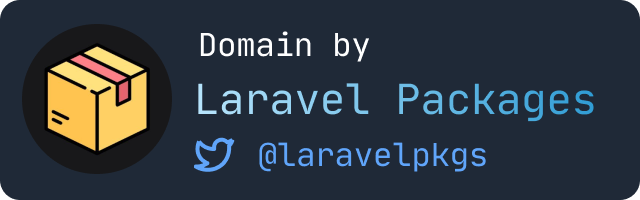
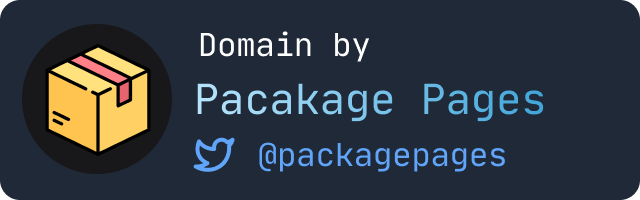
update docs page provider

diff --git a/docs/index.html b/docs/index.html
@@ -12,32 +12,68 @@
     <!-- Primary Meta Tags -->
     <title>Laravel Static Form handles forms from static websites</title>
     <meta name="title" content="Laravel Static Form handles forms from static websites">
-    <meta name="description" content="Static Form helps you to accept static website forms submitted to your Laravel application using API routes and tokens">
+    <meta name="description"
+        content="Static Form helps you to accept static website forms submitted to your Laravel application using API routes and tokens">
 
     <!-- Open Graph / Facebook -->
     <meta property="og:type" content="website">
     <meta property="og:url" content="https://reecem.github.io/static-form">
     <meta property="og:title" content="Laravel Static Form handles forms from static websites">
-    <meta property="og:description" content="Static Form helps you to accept static website forms submitted to your Laravel application using API routes and tokens">
-    <meta property="og:image" content="https://banners.beyondco.de/Static%20Form.png?theme=dark&packageManager=composer+require&packageName=reecem%2Fstatic-form&pattern=xEquals&style=style_2&description=Handle+Static+Site+forms+submissions+inside+your+Laravel+App&md=1&showWatermark=1&fontSize=100px&images=mail&widths=700&heights=400">
+    <meta property="og:description"
+        content="Static Form helps you to accept static website forms submitted to your Laravel application using API routes and tokens">
+    <meta property="og:image"
+        content="https://banners.beyondco.de/Static%20Form.png?theme=dark&packageManager=composer+require&packageName=reecem%2Fstatic-form&pattern=xEquals&style=style_2&description=Handle+Static+Site+forms+submissions+inside+your+Laravel+App&md=1&showWatermark=1&fontSize=100px&images=mail&widths=700&heights=400">
 
     <!-- Twitter -->
     <meta property="twitter:card" content="summary_large_image">
     <meta property="twitter:url" content="https://reecem.github.io/static-form">
     <meta property="twitter:title" content="Laravel Static Form handles forms from static websites">
-    <meta property="twitter:description" content="Static Form helps you to accept static website forms submitted to your Laravel application using API routes and tokens">
-    <meta property="twitter:image" content="https://banners.beyondco.de/Static%20Form.png?theme=dark&packageManager=composer+require&packageName=reecem%2Fstatic-form&pattern=xEquals&style=style_2&description=Handle+Static+Site+forms+submissions+inside+your+Laravel+App&md=1&showWatermark=1&fontSize=100px&images=mail&widths=700&heights=400">
+    <meta property="twitter:description"
+        content="Static Form helps you to accept static website forms submitted to your Laravel application using API routes and tokens">
+    <meta property="twitter:image"
+        content="https://banners.beyondco.de/Static%20Form.png?theme=dark&packageManager=composer+require&packageName=reecem%2Fstatic-form&pattern=xEquals&style=style_2&description=Handle+Static+Site+forms+submissions+inside+your+Laravel+App&md=1&showWatermark=1&fontSize=100px&images=mail&widths=700&heights=400">
 
-    <link rel="stylesheet" href="./css/extra.css"/>
-    <link rel="stylesheet" href="//cdn.jsdelivr.net/npm/docsify-changelog-plugin@latest/dist/style.css"/>
-    <link rel="stylesheet" href="//maxcdn.bootstrapcdn.com/font-awesome/4.5.0/css/font-awesome.min.css"/>
+    <link rel="stylesheet" href="./css/extra.css" />
+    <link rel="stylesheet" href="//cdn.jsdelivr.net/npm/docsify-changelog-plugin@latest/dist/style.css" />
+    <link rel="stylesheet" href="//maxcdn.bootstrapcdn.com/font-awesome/4.5.0/css/font-awesome.min.css" />
+    <style>
+        .pkg-badge {
+            position: fixed;
+            bottom: 0px;
+            left: 0px;
+            width: 100%;
+            display: flex;
+            padding: 0.3rem;
+            justify-content: flex-end;
+        }
+
+        .pkg-badge svg {
+            width: 170px;
+        }
+
+        .pkg-badge img {
+            width: 170px;
+        }
+
+        @media only screen and (max-width: 600px) {
+            .pkg-badge svg {
+                width: 100px;
+            }
+
+            .pkg-badge img {
+                width: 100px;
+            }
+        }
+    </style>
 </head>
 
 <body>
-    <div id="h-bar" style="position: -webkit-sticky; position: sticky; top: 0; z-index: 1;" data-template="#hbar_template"></div>
+    <div id="h-bar" style="position: -webkit-sticky; position: sticky; top: 0; z-index: 1;"
+        data-template="#hbar_template"></div>
     <nav></nav>
     <div id="app"></div>
-    <div style="position: fixed; bottom: 0px; left: 0px; width: 100%; display: flex; padding: 0.3rem; justify-content: flex-end;">
+    <div
+        style="position: fixed; bottom: 0px; left: 0px; width: 100%; display: flex; padding: 0.3rem; justify-content: flex-end;">
         <a href="https://packagepages.dev" rel="noopener noreferer">
             <img src="./laravel_packages.png" width="170" alt="Domain Proudly Supplied by Package Packages">
         </a>
@@ -45,35 +81,39 @@
     <script>
         window.$docsify = {
             name: 'static-form',
-			repo: 'ReeceM/static-form',
-			copyCode: {
-				buttonText : 'Copy',
-				errorText  : 'Error, please try regular way :)',
-				successText: 'Copied'
-			},
+            repo: 'ReeceM/static-form',
+            copyCode: {
+                buttonText: 'Copy',
+                errorText: 'Error, please try regular way :)',
+                successText: 'Copied'
+            },
             coverpage: true,
             loadSidebar: true,
-            loadNavbar : false,
+            loadNavbar: false,
             maxLevel: 5,
             auto2top: true,
             subMaxLevel: 5,
             // homepage: 'https://raw.githubusercontent.com/ReeceM/static-form/master/README.md',
-            changelog : 'https://raw.githubusercontent.com/ReeceM/static-form/master/CHANGELOG.md'
+            changelog: 'https://raw.githubusercontent.com/ReeceM/static-form/master/CHANGELOG.md'
         }
+
     </script>
     <script src="//cdn.jsdelivr.net/npm/docsify/lib/docsify.min.js"></script>
     <script src="//cdn.jsdelivr.net/npm/docsify-changelog-plugin@latest/dist/index.js"></script>
-	<script src="//unpkg.com/docsify-copy-code@2"></script>
+    <script src="//unpkg.com/docsify-copy-code@2"></script>
     <script src="//cdn.jsdelivr.net/npm/dompurify@2.0.11/dist/purify.min.js"></script>
     <script src="//cdn.jsdelivr.net/npm/@reecem/h-bar@next/dist/hBar.min.js"></script>
 
     <template id="hbar_template">
-        <div class="flex w-full flex-col md:flex-row text-sm py-2 md:px-20 px-1 items-center justify-between bg-indigo-400 text-indigo-900">
+        <div
+            class="flex w-full flex-col md:flex-row text-sm py-2 md:px-20 px-1 items-center justify-between bg-indigo-400 text-indigo-900">
             <div class="flex items-center mb-1 md:mb-0">
-                <span class="px-2 mx-2 leading-relaxed tracking-wider uppercase font-semibold rounded-full text-xs bg-indigo-100 text-indigo-900 shadow">
+                <span
+                    class="px-2 mx-2 leading-relaxed tracking-wider uppercase font-semibold rounded-full text-xs bg-indigo-100 text-indigo-900 shadow">
                     Release
                 </span>
-                <a class="hover:underline inline-flex items-center hover:text-indigo-100" href="{% link %}" target="_blank">
+                <a class="hover:underline inline-flex items-center hover:text-indigo-100" href="{% link %}"
+                    target="_blank">
                     {% title %}
                     <svg class="h-3 w-3" viewBox="0 0 20 20" fill="currentColor">
                         <path fill-rule="evenodd"
@@ -83,7 +123,8 @@
                 </a>
             </div>
             <div class="flex items-center">
-                <a class="mx-5 cursor-pointer hover:underline hover:text-indigo-100" href="https://twitter.com/iexistin3d">@iexistin3d</a>
+                <a class="mx-5 cursor-pointer hover:underline hover:text-indigo-100"
+                    href="https://twitter.com/iexistin3d">@iexistin3d</a>
             </div>
         </div>
     </template>
@@ -96,7 +137,10 @@
                 console.log(e)
             },
             parser: (data) => {
-                const {name, html_url} = data[0];
+                const {
+                    name,
+                    html_url
+                } = data[0];
                 return {
                     title: `Latest version available ${name}`,
                     link: html_url + '?ref=hbar_docs'
@@ -104,6 +148,7 @@
             },
         })
         hBar.fetch()
+
     </script>
 </body>
 
